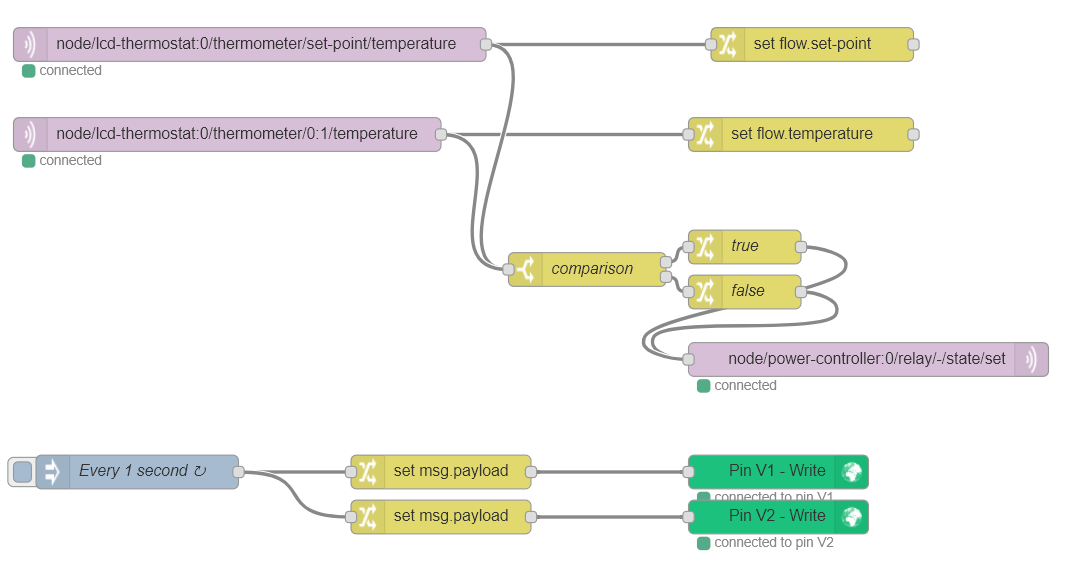
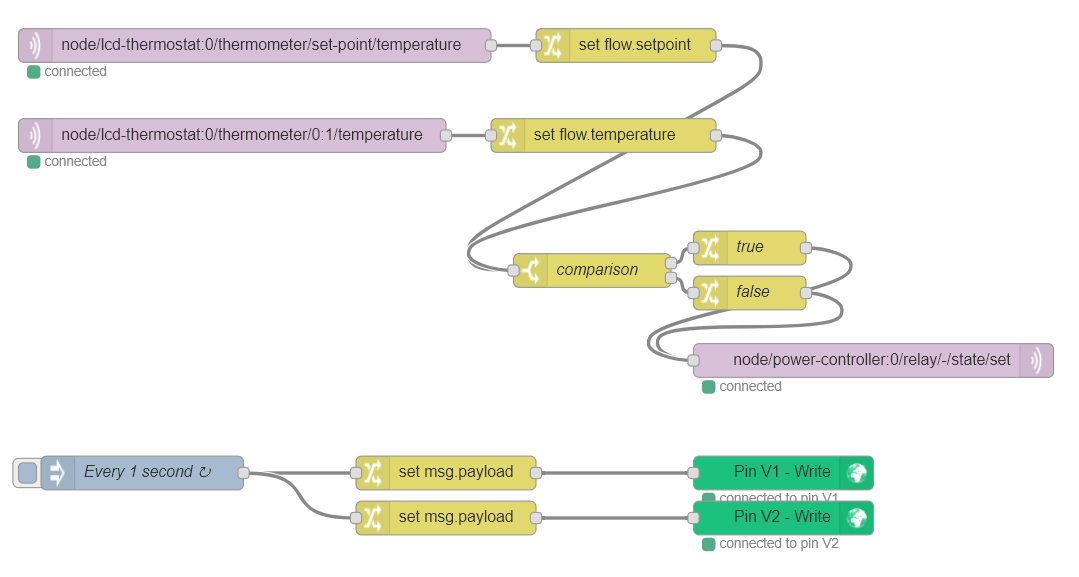
Fix flow.set value to integer

diff --git a/content/doc/projects/radio-lcd-thermostat.md b/content/doc/projects/radio-lcd-thermostat.md
@@ -160,7 +160,7 @@ Firstly we need to configure our **Node-RED** app.
 3. Insert the following snippet in the flow (using **Menu >> Import**):
 
     ```json
-    [{"id":"85a6bc11.f6088","type":"tab","label":"Flow 2","disabled":false,"info":""},{"id":"cdb6da8f.c84f88","type":"blynk-ws-out-write","z":"85a6bc11.f6088","name":"","pin":"1","pinmode":0,"client":"172c134d.989ead","x":700,"y":440,"wires":[]},{"id":"9dd2498e.466368","type":"mqtt in","z":"85a6bc11.f6088","name":"","topic":"node/lcd-thermostat:0/thermometer/0:1/temperature","qos":"2","broker":"3d7de0ee.6b9ed","x":210,"y":140,"wires":[["2390ca91.f7db36","63757f48.e9115"]]},{"id":"c35cea67.a92b48","type":"inject","z":"85a6bc11.f6088","name":"Every 1 second","topic":"","payload":"","payloadType":"date","repeat":"1","crontab":"","once":false,"onceDelay":"","x":130,"y":440,"wires":[["10c14148.1cc99f","19338151.912a9f"]]},{"id":"5b5fb6fe.549268","type":"mqtt out","z":"85a6bc11.f6088","name":"","topic":"node/power-controller:0/relay/-/state/set","qos":"","retain":"","broker":"3d7de0ee.6b9ed","x":780,"y":340,"wires":[]},{"id":"2390ca91.f7db36","type":"change","z":"85a6bc11.f6088","name":"","rules":[{"t":"set","p":"temperature","pt":"flow","to":"payload","tot":"msg"}],"action":"","property":"","from":"","to":"","reg":false,"x":720,"y":140,"wires":[[]]},{"id":"518ff012.d2933","type":"mqtt in","z":"85a6bc11.f6088","name":"","topic":"node/lcd-thermostat:0/thermometer/set-point/temperature","qos":"2","broker":"3d7de0ee.6b9ed","x":230,"y":60,"wires":[["efd4b628.96d098","63757f48.e9115"]]},{"id":"efd4b628.96d098","type":"change","z":"85a6bc11.f6088","name":"","rules":[{"t":"set","p":"set-point","pt":"flow","to":"payload","tot":"msg"}],"action":"","property":"","from":"","to":"","reg":false,"x":730,"y":60,"wires":[[]]},{"id":"10c14148.1cc99f","type":"change","z":"85a6bc11.f6088","name":"","rules":[{"t":"set","p":"payload","pt":"msg","to":"temperature","tot":"flow"}],"action":"","property":"","from":"","to":"","reg":false,"x":400,"y":440,"wires":[["cdb6da8f.c84f88"]]},{"id":"19338151.912a9f","type":"change","z":"85a6bc11.f6088","name":"","rules":[{"t":"set","p":"payload","pt":"msg","to":"set-point","tot":"flow"}],"action":"","property":"","from":"","to":"","reg":false,"x":400,"y":480,"wires":[["32f2b7a7.072788"]]},{"id":"32f2b7a7.072788","type":"blynk-ws-out-write","z":"85a6bc11.f6088","name":"","pin":"2","pinmode":0,"client":"172c134d.989ead","x":700,"y":480,"wires":[]},{"id":"63757f48.e9115","type":"switch","z":"85a6bc11.f6088","name":"comparison","property":"set-point","propertyType":"flow","rules":[{"t":"gt","v":"set-point","vt":"flow"},{"t":"else"}],"checkall":"true","repair":false,"outputs":2,"x":530,"y":260,"wires":[["b83b5274.58c59"],["4984fb4c.bbe3f4"]]},{"id":"b83b5274.58c59","type":"change","z":"85a6bc11.f6088","name":"true","rules":[{"t":"set","p":"payload","pt":"msg","to":"true","tot":"bool"}],"action":"","property":"","from":"","to":"","reg":false,"x":670,"y":240,"wires":[["5b5fb6fe.549268"]]},{"id":"4984fb4c.bbe3f4","type":"change","z":"85a6bc11.f6088","name":"false","rules":[{"t":"set","p":"payload","pt":"msg","to":"false","tot":"bool"}],"action":"","property":"","from":"","to":"","reg":false,"x":670,"y":280,"wires":[["5b5fb6fe.549268"]]},{"id":"172c134d.989ead","type":"blynk-ws-client","z":"","name":"","path":"ws://blynk-cloud.com:8080/websockets","key":"4035de467a9a483b9d1318c92d3fabcb","dbg_all":false,"dbg_read":false,"dbg_write":false,"dbg_notify":false,"dbg_mail":false,"dbg_prop":false,"dbg_sync":false,"dbg_bridge":false,"dbg_low":false,"dbg_pins":"","multi_cmd":false,"proxy_type":"no","proxy_url":""},{"id":"3d7de0ee.6b9ed","type":"mqtt-broker","z":"","broker":"localhost","port":"1883","clientid":"","usetls":false,"compatmode":true,"keepalive":"60","cleansession":true,"birthTopic":"","birthQos":"0","birthPayload":"","willTopic":"","willQos":"0","willPayload":""}]
+    [{"id":"85a6bc11.f6088","type":"tab","label":"Flow 2","disabled":false,"info":""},{"id":"cdb6da8f.c84f88","type":"blynk-ws-out-write","z":"85a6bc11.f6088","name":"","pin":"1","pinmode":0,"client":"172c134d.989ead","x":700,"y":440,"wires":[]},{"id":"9dd2498e.466368","type":"mqtt in","z":"85a6bc11.f6088","name":"","topic":"node/lcd-thermostat:0/thermometer/0:1/temperature","qos":"2","broker":"3d7de0ee.6b9ed","x":210,"y":140,"wires":[["2390ca91.f7db36"]]},{"id":"c35cea67.a92b48","type":"inject","z":"85a6bc11.f6088","name":"Every 1 second","topic":"","payload":"","payloadType":"date","repeat":"1","crontab":"","once":false,"onceDelay":"","x":130,"y":440,"wires":[["10c14148.1cc99f","19338151.912a9f"]]},{"id":"5b5fb6fe.549268","type":"mqtt out","z":"85a6bc11.f6088","name":"","topic":"node/power-controller:0/relay/-/state/set","qos":"","retain":"","broker":"3d7de0ee.6b9ed","x":780,"y":340,"wires":[]},{"id":"2390ca91.f7db36","type":"change","z":"85a6bc11.f6088","name":"","rules":[{"t":"set","p":"temperature","pt":"flow","to":"$number(msg.payload)","tot":"jsonata"}],"action":"","property":"","from":"","to":"","reg":false,"x":540,"y":140,"wires":[["63757f48.e9115"]]},{"id":"518ff012.d2933","type":"mqtt in","z":"85a6bc11.f6088","name":"","topic":"node/lcd-thermostat:0/thermometer/set-point/temperature","qos":"2","broker":"3d7de0ee.6b9ed","x":230,"y":60,"wires":[["efd4b628.96d098"]]},{"id":"efd4b628.96d098","type":"change","z":"85a6bc11.f6088","name":"","rules":[{"t":"set","p":"setpoint","pt":"flow","to":"$number(msg.payload)","tot":"jsonata"}],"action":"","property":"","from":"","to":"","reg":false,"x":560,"y":60,"wires":[["63757f48.e9115"]]},{"id":"10c14148.1cc99f","type":"change","z":"85a6bc11.f6088","name":"","rules":[{"t":"set","p":"payload","pt":"msg","to":"temperature","tot":"flow"}],"action":"","property":"","from":"","to":"","reg":false,"x":400,"y":440,"wires":[["cdb6da8f.c84f88"]]},{"id":"19338151.912a9f","type":"change","z":"85a6bc11.f6088","name":"","rules":[{"t":"set","p":"payload","pt":"msg","to":"set-point","tot":"flow"}],"action":"","property":"","from":"","to":"","reg":false,"x":400,"y":480,"wires":[["32f2b7a7.072788"]]},{"id":"32f2b7a7.072788","type":"blynk-ws-out-write","z":"85a6bc11.f6088","name":"","pin":"2","pinmode":0,"client":"172c134d.989ead","x":700,"y":480,"wires":[]},{"id":"63757f48.e9115","type":"switch","z":"85a6bc11.f6088","name":"comparison","property":"setpoint","propertyType":"flow","rules":[{"t":"gt","v":"temperature","vt":"flow"},{"t":"lte","v":"temperature","vt":"flow"}],"checkall":"true","repair":false,"outputs":2,"x":530,"y":260,"wires":[["b83b5274.58c59"],["4984fb4c.bbe3f4"]]},{"id":"b83b5274.58c59","type":"change","z":"85a6bc11.f6088","name":"true","rules":[{"t":"set","p":"payload","pt":"msg","to":"true","tot":"bool"}],"action":"","property":"","from":"","to":"","reg":false,"x":670,"y":240,"wires":[["5b5fb6fe.549268"]]},{"id":"4984fb4c.bbe3f4","type":"change","z":"85a6bc11.f6088","name":"false","rules":[{"t":"set","p":"payload","pt":"msg","to":"false","tot":"bool"}],"action":"","property":"","from":"","to":"","reg":false,"x":670,"y":280,"wires":[["5b5fb6fe.549268"]]},{"id":"172c134d.989ead","type":"blynk-ws-client","z":"","name":"","path":"ws://blynk-cloud.com:8080/websockets","key":"4035de467a9a483b9d1318c92d3fabcb","dbg_all":false,"dbg_read":false,"dbg_write":false,"dbg_notify":false,"dbg_mail":false,"dbg_prop":false,"dbg_sync":false,"dbg_bridge":false,"dbg_low":false,"dbg_pins":"","multi_cmd":false,"proxy_type":"no","proxy_url":""},{"id":"3d7de0ee.6b9ed","type":"mqtt-broker","z":"","broker":"localhost","port":"1883","clientid":"","usetls":false,"compatmode":true,"keepalive":"60","cleansession":true,"birthTopic":"","birthQos":"0","birthPayload":"","willTopic":"","willQos":"0","willPayload":""}]
     ```
 
     It will look like this:
